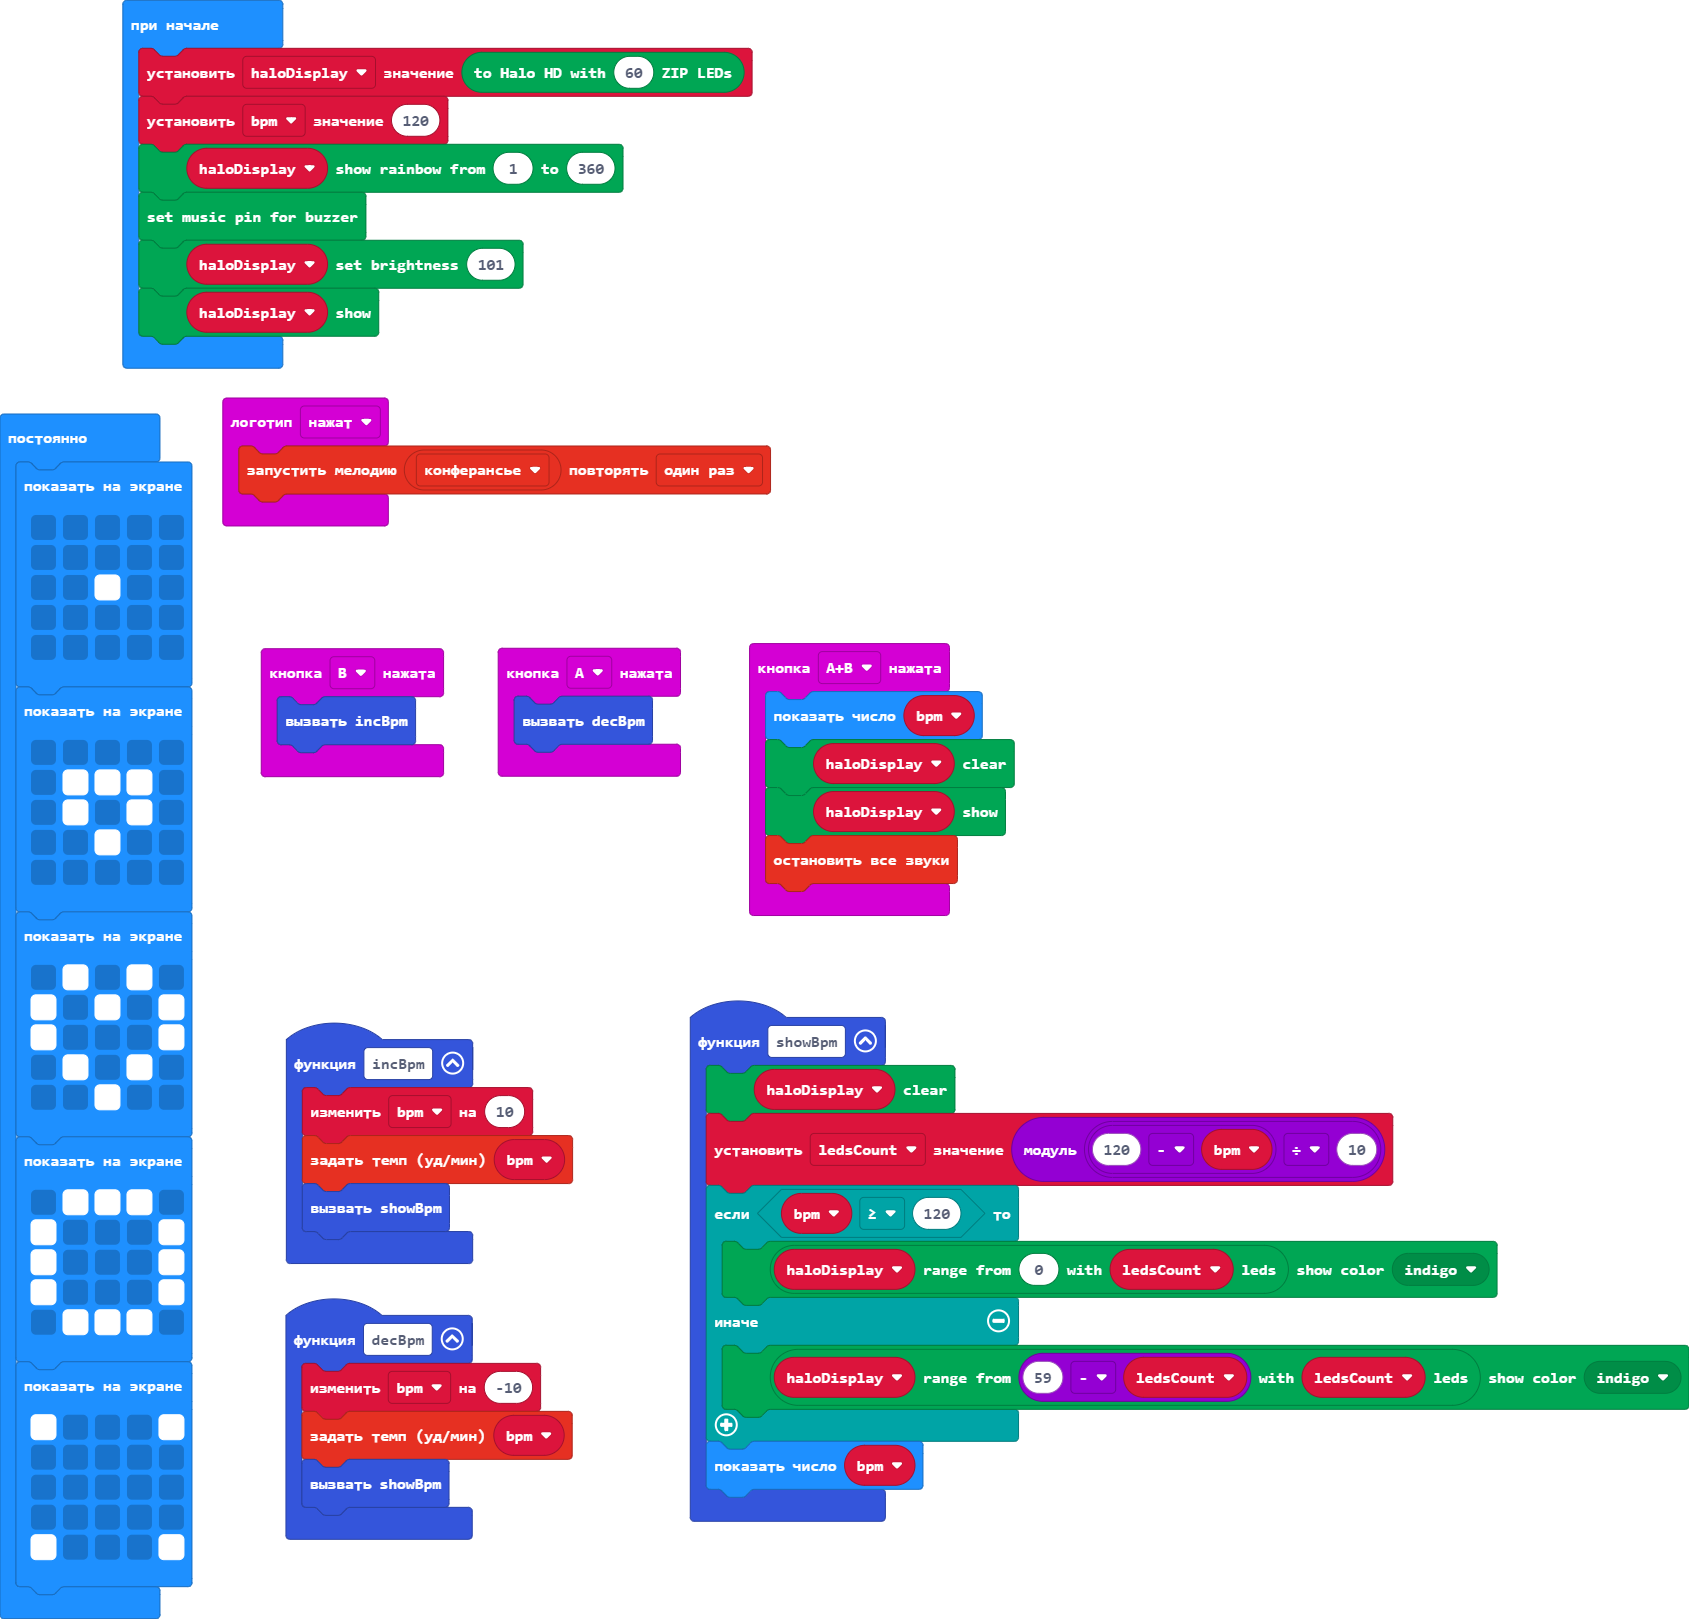
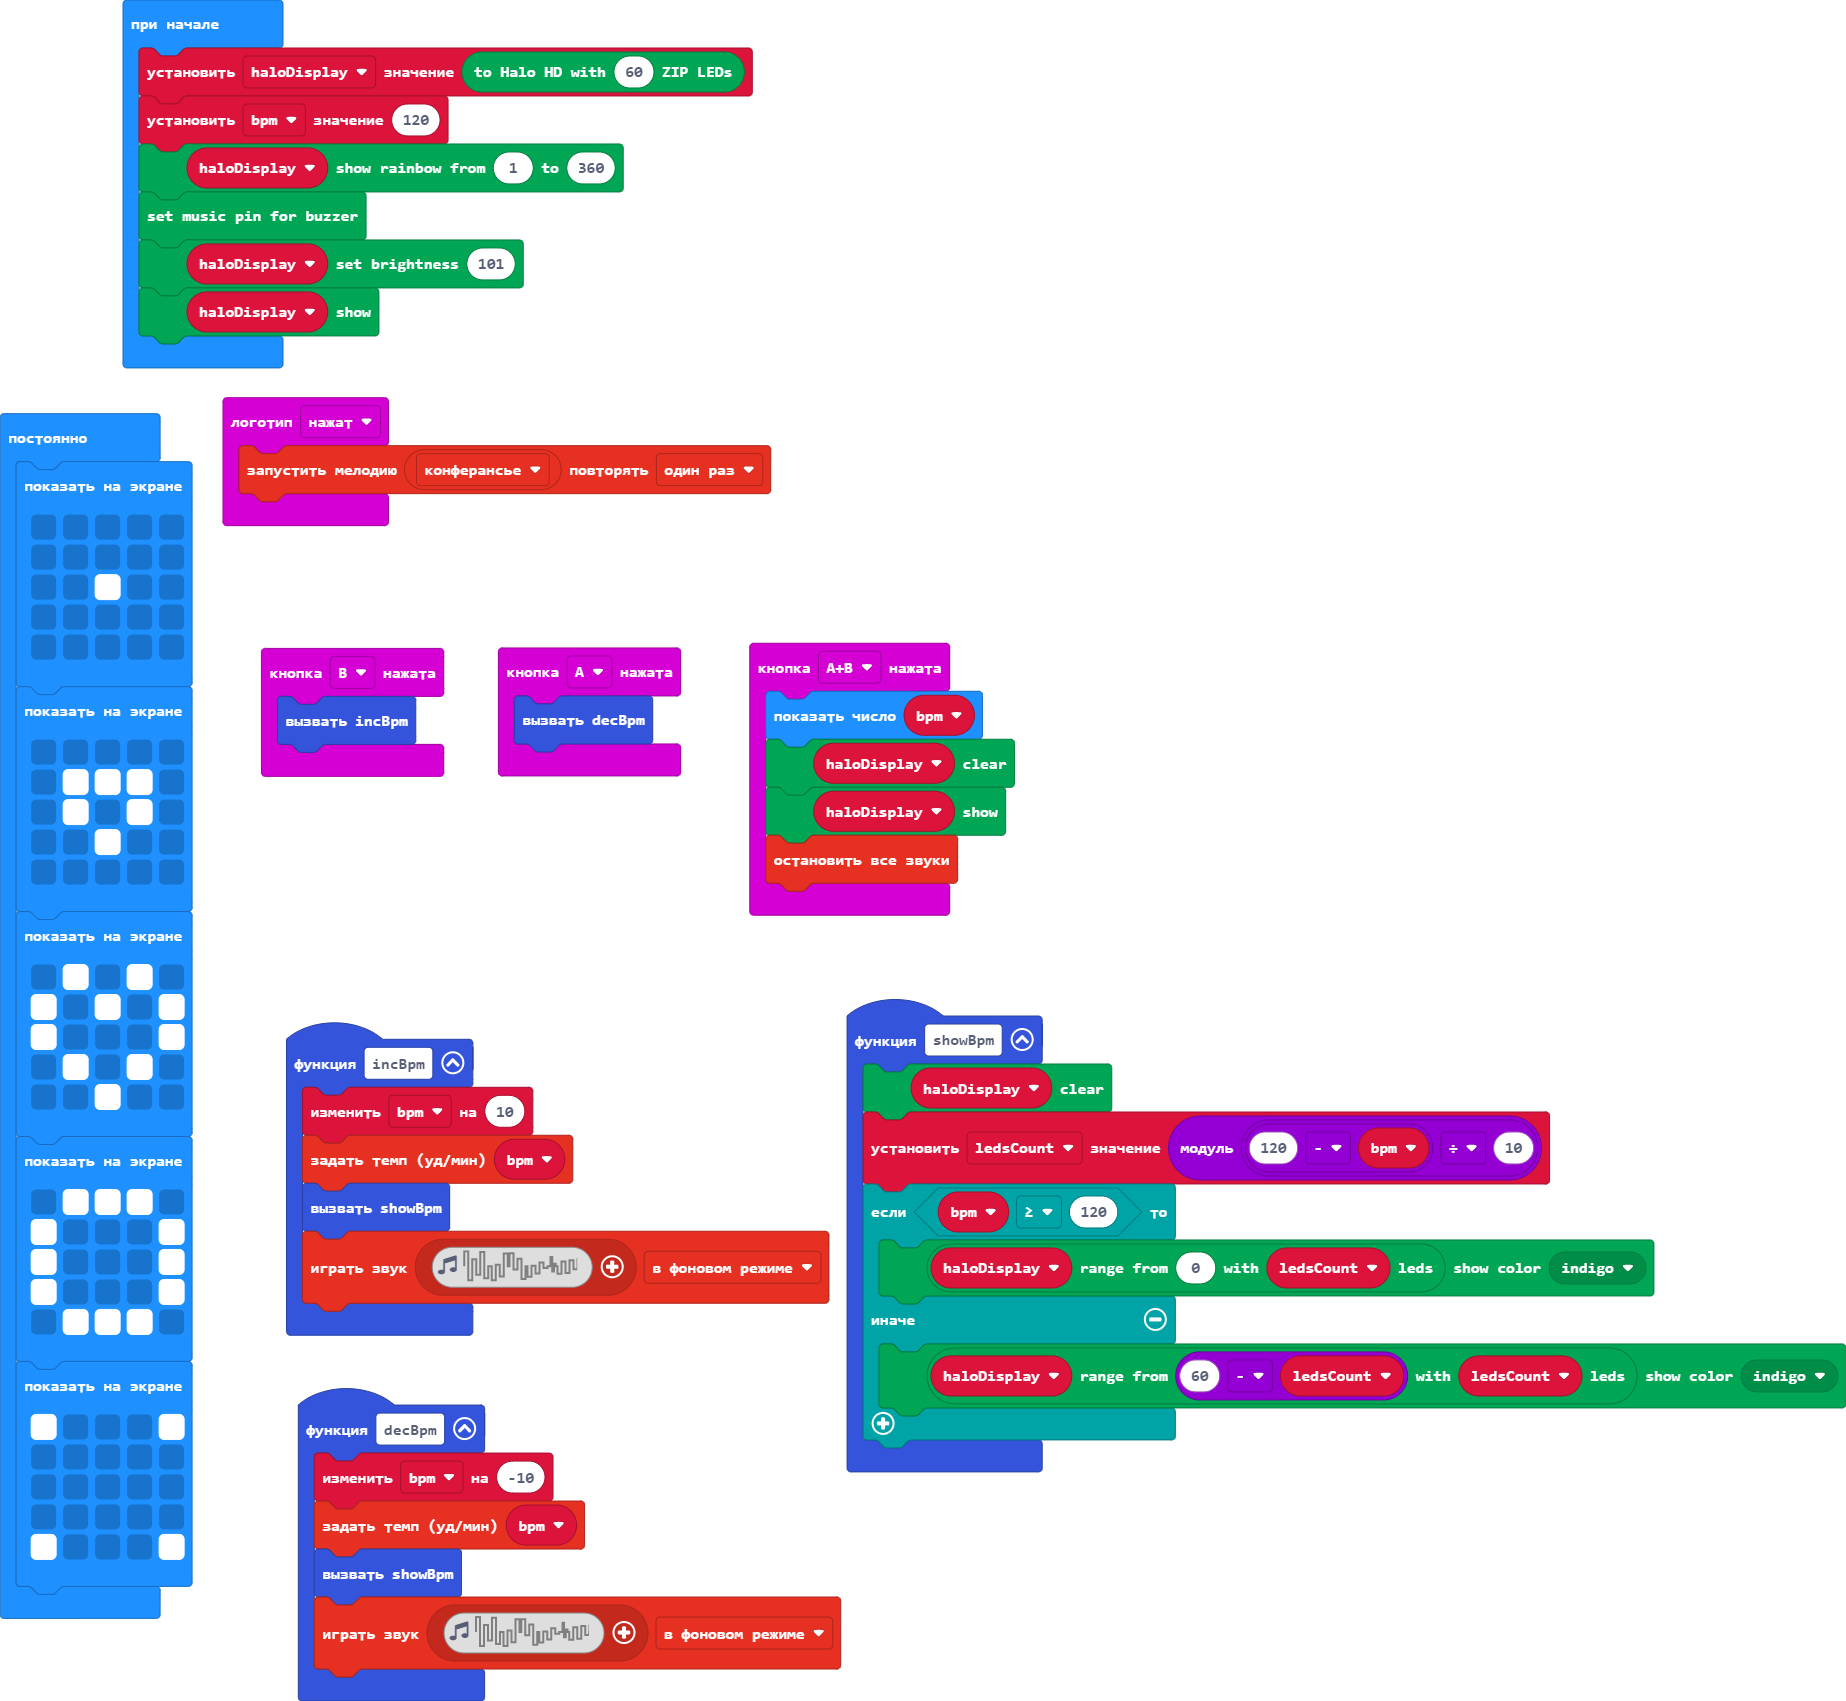
add clicky sound to change bpm

diff --git a/main.ts b/main.ts
@@ -5,6 +5,7 @@ function incBpm () {
     bpm += 10
     music.setTempo(bpm)
     showBpm()
+    music.playSoundEffect(music.createSoundEffect(WaveShape.Noise, 500, 1, 255, 0, 10, SoundExpressionEffect.None, InterpolationCurve.Linear), SoundExpressionPlayMode.InBackground)
 }
 input.onButtonPressed(Button.A, function () {
     decBpm()
@@ -13,6 +14,7 @@ function decBpm () {
     bpm += -10
     music.setTempo(bpm)
     showBpm()
+    music.playSoundEffect(music.createSoundEffect(WaveShape.Noise, 500, 1, 255, 0, 10, SoundExpressionEffect.None, InterpolationCurve.Linear), SoundExpressionPlayMode.InBackground)
 }
 input.onButtonPressed(Button.AB, function () {
     basic.showNumber(bpm)
@@ -29,9 +31,8 @@ function showBpm () {
     if (bpm >= 120) {
         haloDisplay.range(0, ledsCount).showColor(kitronik_halo_hd.colors(ZipLedColors.Indigo))
     } else {
-        haloDisplay.range(59 - ledsCount, ledsCount).showColor(kitronik_halo_hd.colors(ZipLedColors.Indigo))
+        haloDisplay.range(60 - ledsCount, ledsCount).showColor(kitronik_halo_hd.colors(ZipLedColors.Indigo))
     }
-    basic.showNumber(bpm)
 }
 let ledsCount = 0
 let bpm = 0
